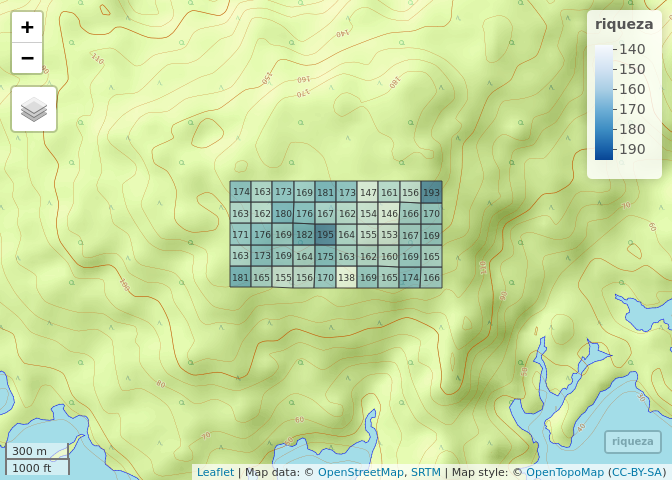
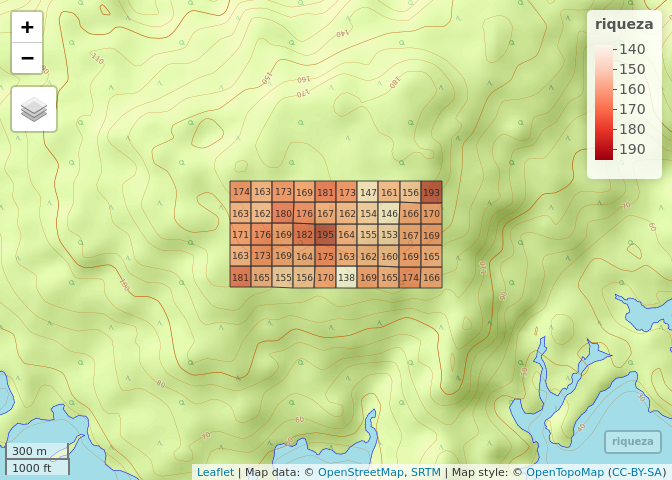
added mapshots to aed_3 and aed_4

Changed region(s): [[0.3438, 0.375, 0.6562, 0.625], [0.875, 0.0938, 0.9375, 0.3438]]

diff --git a/aed_3_mapas_riqueza_abun_global_mi_familia.md b/aed_3_mapas_riqueza_abun_global_mi_familia.md
@@ -11,14 +11,14 @@ library(mapview)
 library(tidyverse)
 ```
 
-    ## ── Attaching packages ─────────────────────────────── tidyverse 1.2.1 ──
+    ## ── Attaching packages ──────────────────────────────── tidyverse 1.2.1 ──
 
     ## ✓ ggplot2 3.3.2     ✓ purrr   0.3.4
     ## ✓ tibble  3.0.3     ✓ dplyr   0.8.3
     ## ✓ tidyr   1.0.0     ✓ stringr 1.4.0
     ## ✓ readr   1.3.1     ✓ forcats 0.4.0
 
-    ## ── Conflicts ────────────────────────────────── tidyverse_conflicts() ──
+    ## ── Conflicts ─────────────────────────────────── tidyverse_conflicts() ──
     ## x dplyr::filter() masks stats::filter()
     ## x dplyr::lag()    masks stats::lag()
 
@@ -181,6 +181,10 @@ mapa_cuadros
 
 ![](aed_3_mapas_riqueza_abun_global_mi_familia_files/figure-gfm/unnamed-chunk-4-1.png)<!-- -->
 
+``` r
+mapa_cuadros %>% mapshot(file = 'mapa_cuadros.png') #Genera archivo
+```
+
 ### Paletas
 
 ``` r
@@ -209,6 +213,10 @@ mapa_cuadros_abun_global
 
 ![](aed_3_mapas_riqueza_abun_global_mi_familia_files/figure-gfm/unnamed-chunk-6-1.png)<!-- -->
 
+``` r
+mapa_cuadros_abun_global %>% mapshot(file = 'mapa_cuadros_abun_global.png') 
+```
+
 ### Mapa de cuadros, simbología por riqueza global
 
 ``` r
@@ -218,7 +226,7 @@ mapa_cuadros_riq_global <- mapView(
   alpha.regions = 0.6,
   map.types = 'OpenTopoMap',
   legend = T, zoom = 14,
-  col.regions = azul,
+  col.regions = rojo,
   zcol = 'riqueza_global') %>%
   addStaticLabels(label = bci_env_grid$riqueza_global, textsize = "7pt") %>%
   leaflet::setView(
@@ -229,6 +237,10 @@ mapa_cuadros_riq_global
 ```
 
 ![](aed_3_mapas_riqueza_abun_global_mi_familia_files/figure-gfm/unnamed-chunk-7-1.png)<!-- -->
+
+``` r
+mapa_cuadros_riq_global %>% mapshot(file = 'mapa_cuadros_riq_global.png')
+```
 
 ### Mapa de cuadros, simbología por abundancia de mi familia
 
@@ -251,6 +263,10 @@ mapa_cuadros_abun_mi_familia
 
 ![](aed_3_mapas_riqueza_abun_global_mi_familia_files/figure-gfm/unnamed-chunk-8-1.png)<!-- -->
 
+``` r
+mapa_cuadros_abun_mi_familia %>% mapshot(file = 'mapa_cuadros_abun_mi_familia.png')
+```
+
 ### Mapa de cuadros, simbología por riqueza de mi familia
 
 ``` r
@@ -260,7 +276,7 @@ mapa_cuadros_riq_mi_familia <- mapView(
   alpha.regions = 0.6,
   map.types = 'OpenTopoMap',
   legend = T, zoom = 14,
-  col.regions = azul,
+  col.regions = rojo,
   zcol = 'riq') %>%
   addStaticLabels(label = specnumber(mc_apcyn_melic_saptc)) %>%
   leaflet::setView(
@@ -271,3 +287,7 @@ mapa_cuadros_riq_mi_familia
 ```
 
 ![](aed_3_mapas_riqueza_abun_global_mi_familia_files/figure-gfm/unnamed-chunk-9-1.png)<!-- -->
+
+``` r
+mapa_cuadros_riq_mi_familia %>% mapshot(file = 'mapa_cuadros_riq_mi_familia.png')
+```

diff --git a/aed_4_mapas_variables_ambientales.md b/aed_4_mapas_variables_ambientales.md
@@ -66,6 +66,10 @@ mapa_cuadros_pendiente
 
 ![](aed_4_mapas_variables_ambientales_files/figure-gfm/unnamed-chunk-4-1.png)<!-- -->
 
+``` r
+mapa_cuadros_pendiente %>% mapshot(file = 'mapa_cuadros_pendiente.png') #Genera archivo
+```
+
 ### Mapa de cuadros, simbología por Nitrógeno
 
 ``` r
@@ -87,6 +91,10 @@ mapa_cuadros_nit
 
 ![](aed_4_mapas_variables_ambientales_files/figure-gfm/unnamed-chunk-5-1.png)<!-- -->
 
+``` r
+mapa_cuadros_nit %>% mapshot(file = 'mapa_cuadros_nit.png')
+```
+
 ### Mapa de cuadros, simbología por pH
 
 ``` r
@@ -107,3 +115,7 @@ mapa_cuadros_ph
 ```
 
 ![](aed_4_mapas_variables_ambientales_files/figure-gfm/unnamed-chunk-6-1.png)<!-- -->
+
+``` r
+mapa_cuadros_ph %>% mapshot(file = 'mapa_cuadros_ph.png')
+```
